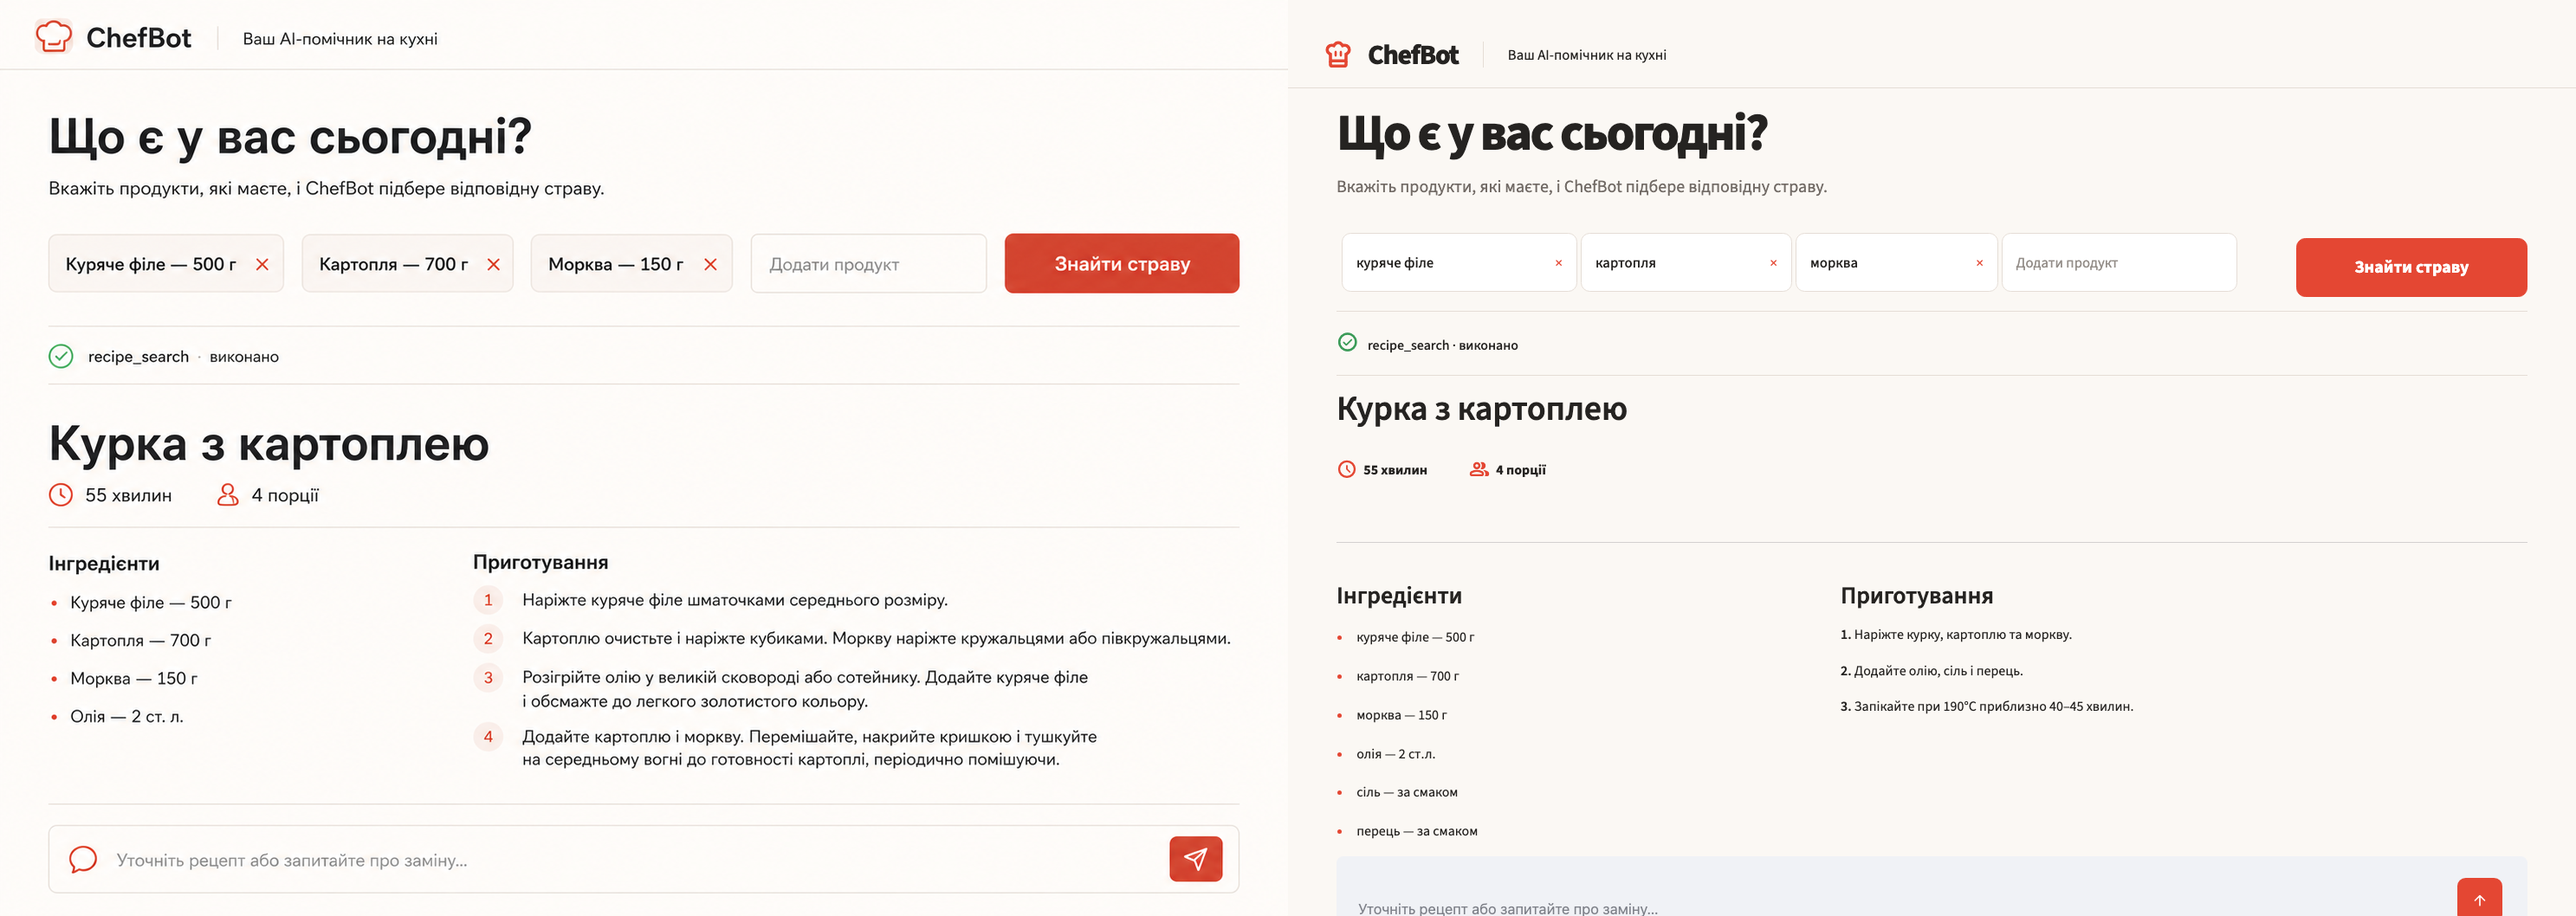
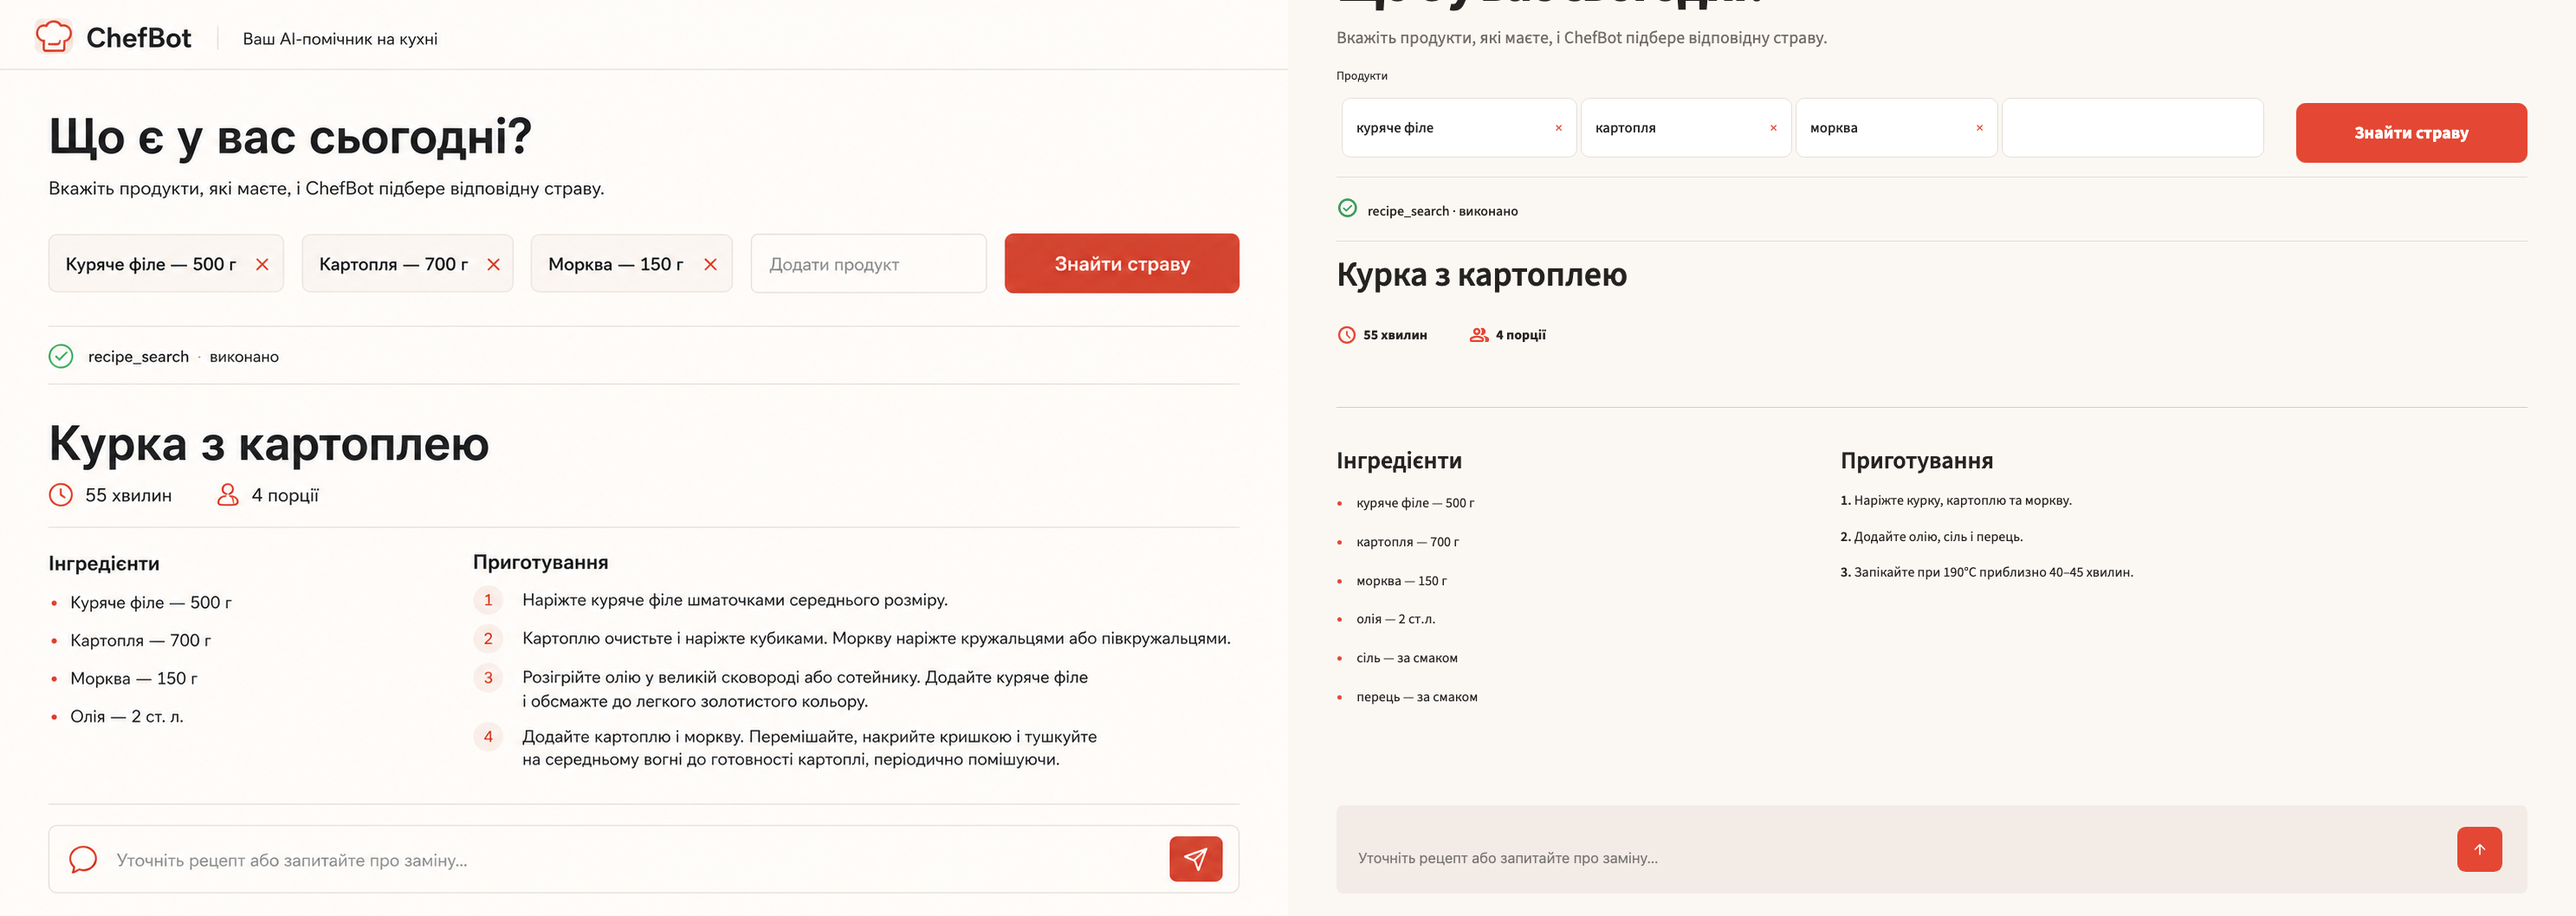
fix: repair ChefBot ingredient states

diff --git a/app.py b/app.py
@@ -51,9 +51,6 @@ h2 {
 }
 ul li::marker { color: var(--chef-accent); }
 [data-testid="stHeader"] { display: none; }
-[data-testid="stForm"] { border: 0; padding: 0; }
-div[data-testid="stForm"] { margin-top: 0.9rem; }
-div[data-testid="stFormSubmitButton"] button,
 .stButton button[kind="primary"] {
   background: var(--chef-accent);
   border-color: var(--chef-accent);
@@ -63,16 +60,25 @@ div[data-testid="stFormSubmitButton"] button,
   font-size: 1.05rem;
   font-weight: 700;
 }
-div[data-testid="stFormSubmitButton"] button p,
 .stButton button[kind="primary"] p {
   color: #fff !important;
   font-size: 1.25rem !important;
   font-weight: 700 !important;
 }
-div[data-testid="stFormSubmitButton"] button:hover,
 .stButton button[kind="primary"]:hover {
   background: var(--chef-accent-hover);
   border-color: var(--chef-accent-hover);
+}
+.stButton button:disabled,
+.stButton button:disabled:hover {
+  background: #eee6e0 !important;
+  border-color: #ded3cb !important;
+  color: #7a716b !important;
+  cursor: not-allowed;
+  opacity: 1 !important;
+}
+.stButton button:disabled p {
+  color: #7a716b !important;
 }
 .chef-header {
   display: flex;
@@ -131,6 +137,17 @@ div[data-testid="stFormSubmitButton"] button:hover,
   box-shadow: none;
   gap: 0.75rem;
 }
+[data-testid="stMultiSelect"] label {
+  color: var(--chef-text);
+  font-size: 0.95rem;
+  font-weight: 700;
+  margin-bottom: 0.45rem;
+}
+[data-testid="stMultiSelect"] [data-baseweb="select"] > div > div:first-child {
+  align-items: center;
+  flex: 1 1 auto;
+  width: 100%;
+}
 [data-testid="stMultiSelect"] [data-baseweb="tag"] {
   width: 15.25rem;
   min-height: 4.3rem;
@@ -149,7 +166,9 @@ div[data-testid="stFormSubmitButton"] button:hover,
 }
 [data-testid="stMultiSelect"] [data-baseweb="tag"] svg { fill: var(--chef-accent); }
 [data-testid="stMultiSelect"] [data-baseweb="select"] div:has(> input[role="combobox"]) {
+  flex: 1 1 17rem;
   position: relative;
+  width: auto;
   min-width: 17rem;
   min-height: 4.3rem;
   padding: 0 1rem;
@@ -157,16 +176,9 @@ div[data-testid="stFormSubmitButton"] button:hover,
   border: 1px solid var(--chef-divider);
   border-radius: 0.65rem;
 }
-[data-testid="stMultiSelect"] [data-baseweb="select"] div:has(> input[role="combobox"])::after {
-  content: "Додати продукт";
-  position: absolute;
-  inset: 1.3rem auto auto 1rem;
-  color: #948e89;
-  font-size: 1.05rem;
-  pointer-events: none;
-}
-[data-testid="stMultiSelect"] [data-baseweb="select"] div:has(> input[role="combobox"]:focus)::after {
-  display: none;
+[data-testid="stMultiSelect"] input[role="combobox"]::placeholder {
+  color: var(--chef-muted);
+  opacity: 1;
 }
 [data-testid="stMultiSelect"] svg[title="Clear all"],
 [data-testid="stMultiSelect"] svg[title="open"] { display: none; }
@@ -244,6 +256,9 @@ hr { border-color: var(--chef-divider); }
   [data-testid="stMultiSelect"] [data-baseweb="select"] div:has(> input[role="combobox"]) {
     width: 100% !important;
     min-width: 100%;
+  }
+  [data-testid="stMultiSelect"] [data-baseweb="select"] div:has(> input[role="combobox"]) {
+    flex: 0 0 auto !important;
   }
   [data-testid="stBottom"] > div {
     padding-left: 1rem !important;
@@ -384,26 +399,29 @@ def main() -> None:
         unsafe_allow_html=True,
     )
 
-    with st.form("ingredient-search", border=False):
-        ingredients_column, action_column = st.columns([4, 1], vertical_alignment="bottom")
-        with ingredients_column:
-            selected = st.multiselect(
-                "Продукти",
-                options=known_ingredients(),
-                default=st.session_state.ingredients,
-                placeholder="Додати продукт",
-                accept_new_options=True,
-                max_selections=12,
-                key="ingredient-picker",
-                label_visibility="collapsed",
-            )
-        with action_column:
-            submitted = st.form_submit_button(
-                "Знайти страву",
-                type="primary",
-                use_container_width=True,
-                disabled=not selected,
-            )
+    ingredients_column, action_column = st.columns([4, 1], vertical_alignment="bottom")
+    with ingredients_column:
+        selected = st.multiselect(
+            "Продукти",
+            options=known_ingredients(),
+            default=st.session_state.ingredients,
+            placeholder="Додати продукт",
+            accept_new_options=True,
+            max_selections=12,
+            key="ingredient-picker",
+            label_visibility="visible",
+        )
+    with action_column:
+        submitted = st.button(
+            "Знайти страву",
+            type="primary",
+            use_container_width=True,
+            disabled=not selected,
+            key="ingredient-search-button",
+        )
+
+    if not selected:
+        st.caption("Додайте хоча б один продукт.")
 
     if submitted:
         st.session_state.ingredients = selected
@@ -432,7 +450,8 @@ def main() -> None:
         with st.expander("Відповідь ChefBot"):
             st.write(st.session_state.last_answer)
 
-    with st.container():
+    follow_up = None
+    if st.session_state.current_recipe or st.session_state.last_answer:
         follow_up = st.chat_input(
             "Уточніть рецепт або запитайте про заміну…",
             key="chef-follow-up",

diff --git a/tests/test_app.py b/tests/test_app.py
@@ -1,6 +1,8 @@
+import re
+
 from streamlit.testing.v1 import AppTest
 
-from app import get_api_key, latest_recipe
+from app import PAGE_STYLE, get_api_key, latest_recipe
 from chefbot.agent import ToolEvent
 
 
@@ -37,6 +39,54 @@ def test_initial_streamlit_screen_renders_without_api_key(monkeypatch) -> None:
     assert not app.exception
     assert app.title[0].value == "Що є у вас сьогодні?"
     assert app.multiselect[0].value == ["куряче філе", "картопля", "морква"]
+
+
+def test_ingredient_label_is_visible(monkeypatch) -> None:
+    monkeypatch.delenv("OPENAI_API_KEY", raising=False)
+    app = AppTest.from_file("app.py").run()
+    assert app.multiselect[0].proto.label_visibility.value == 0
+
+
+def test_empty_selection_disables_search_and_explains_requirement(monkeypatch) -> None:
+    monkeypatch.delenv("OPENAI_API_KEY", raising=False)
+    app = AppTest.from_file("app.py").run()
+    app.multiselect[0].set_value([]).run()
+    assert app.button[0].disabled
+    assert app.caption[0].value == "Додайте хоча б один продукт."
+
+
+def test_ingredient_selection_is_not_batched_inside_a_form(monkeypatch) -> None:
+    monkeypatch.delenv("OPENAI_API_KEY", raising=False)
+    app = AppTest.from_file("app.py").run()
+    assert app.multiselect[0].proto.form_id == ""
+
+
+def test_follow_up_is_hidden_until_conversation_context_exists(monkeypatch) -> None:
+    monkeypatch.delenv("OPENAI_API_KEY", raising=False)
+    app = AppTest.from_file("app.py").run()
+    assert not app.chat_input
+
+
+def test_styles_use_native_placeholder_only() -> None:
+    assert 'content: "Додати продукт"' not in PAGE_STYLE
+
+
+def test_styles_distinguish_disabled_primary_action() -> None:
+    assert "button:disabled" in PAGE_STYLE
+
+
+def test_multiselect_input_remains_in_the_flex_layout() -> None:
+    rule = re.search(
+        r'div:has\(> input\[role="combobox"\]\) \{(?P<body>.*?)\n\}',
+        PAGE_STYLE,
+        re.DOTALL,
+    )
+    assert rule is not None
+    assert "position: relative" in rule.group("body")
+
+
+def test_mobile_input_resets_the_desktop_flex_basis() -> None:
+    assert "flex: 0 0 auto !important" in PAGE_STYLE
 
 
 def test_submit_without_api_key_shows_setup_error_and_preserves_selection(monkeypatch) -> None:

diff --git a/design-qa.md b/design-qa.md
@@ -2,89 +2,77 @@
 
 ## Evidence
 
-- Source visual truth: `docs/design/chefbot-ui-reference.png`
-- Final implementation: `docs/design/chefbot-ui-implementation-loaded.png`
-- Side-by-side comparison: `docs/design/chefbot-ui-comparison-loaded.png`
-- Initial state: `docs/design/chefbot-ui-implementation.png`
-- Missing-key state: `docs/design/chefbot-ui-error.png`
-- Responsive state: `docs/design/chefbot-ui-mobile.png`
-- Desktop viewport and CSS size: `1487 x 1058`
-- Mobile viewport and CSS size: `390 x 844`
-- Source pixels: `1487 x 1058`
-- Implementation pixels: `1487 x 1058`
-- Density normalization: both desktop captures used `deviceScaleFactor: 1`; no resampling was needed.
-- Compared state: successful ingredient-to-recipe result with `recipe_search` completed, recipe details visible, and follow-up input available.
+- Approved loaded-state reference: `docs/design/chefbot-ui-reference.png`
+- User-reported regression: `docs/design/chefbot-ui-empty-before.png`
+- Corrected empty state: `docs/design/chefbot-ui-empty-fixed.png`
+- Empty-state comparison: `docs/design/chefbot-ui-empty-comparison.png`
+- One-item transition: `docs/design/chefbot-ui-one-item-fixed.png`
+- Corrected mobile empty state: `docs/design/chefbot-ui-empty-mobile-fixed.png`
+- Corrected loaded state: `docs/design/chefbot-ui-implementation-loaded.png`
+- Loaded-state comparison: `docs/design/chefbot-ui-comparison-loaded.png`
+- Empty desktop viewport: `1462 x 647` CSS pixels at `deviceScaleFactor: 2`
+  (`2924 x 1294` screenshot pixels), exactly matching the regression capture.
+- Loaded desktop viewport: `1487 x 1058` at `deviceScaleFactor: 1`, exactly
+  matching the approved reference.
+- Mobile viewport: `390 x 844` at `deviceScaleFactor: 1`.
 
-The source and implementation were opened together in the same `2974 x 1058`
-side-by-side image. A separate focused crop was not needed because the original-size
-comparison keeps the logo, form controls, tool status, metadata, recipe columns, and
-follow-up control legible.
+Both desktop comparisons place the source and current implementation together at
+identical viewport, state, and density. The regression screenshot is defect evidence,
+not an intended visual target.
 
-## Findings
+## Findings resolved
+
+- [P1] The add-product placeholder appeared twice because CSS generated a second copy.
+  The synthetic `::after` content is gone; the browser reports one visible placeholder
+  and pseudo-element content `none`.
+- [P1] Clearing the last ingredient left the CTA actually enabled because `st.form`
+  batched the multiselect change until submission. The picker and button now rerun
+  independently, so the CTA immediately becomes disabled and visually neutral.
+- [P1] The empty input occupied only `381 px` while the CTA sat on the far edge of the
+  screen. The input now fills its column (`1045 px`) with a `37 px` gap to the `262 px`
+  CTA at the regression viewport.
+- [P2] The follow-up control appeared before there was recipe or conversation context.
+  It is now hidden in the initial and empty states.
+- [P2] The first flex correction briefly let the input wrapper overlap ingredient tags.
+  Keeping the wrapper `position: relative` preserves normal layout and click targets.
+- [P2] The desktop flex basis initially made the empty mobile input `272 px` tall. The
+  mobile rule resets that basis; the final input is `69 px` high with no horizontal
+  overflow.
+- [P2] A nested `st.container()` moved the loaded-state follow-up input into page flow
+  and below the viewport. It is now a direct `st.chat_input`, restored to Streamlit's
+  sticky bottom container at `y=930`, fully visible within the `1058 px` viewport.
 
 No actionable P0, P1, or P2 visual mismatch remains.
 
-- Typography: the system sans-serif stack, weights, line height, and tightened display
-  tracking reproduce the source hierarchy. The recipe heading was raised to the same
-  visual tier as the source.
-- Spacing and layout: the desktop header, hero, ingredient row, action, dividers,
-  recipe columns, and fixed follow-up control follow the source rhythm. At `390 px`,
-  the form becomes a single readable column with no clipping or horizontal overflow.
-- Colors and tokens: warm `#FBF8F4` background, `#252321` foreground, `#E44733`
-  primary action, green success state, and warm neutral dividers match the approved
-  direction.
-- Image and icon fidelity: the screen has no photographic or illustrative assets.
-  Visible symbols use Streamlit's Material Symbols icon library; no emoji, placeholder
-  art, handcrafted SVG, or CSS illustration replaces a source asset.
-- Copy and content: Ukrainian interface copy matches the approved screen. Recipe values
-  are rendered from the local verified data rather than copied from the mockup.
-- Affordances: ingredient removal, add-product input, primary search action, tool
-  completion, recipe result, and follow-up input are visibly distinct.
-
-## Intentional differences and follow-up polish
-
-- [P3] The mockup includes inventory quantities inside the three input chips, while the
-  current product asks only which ingredients are available. Inventing quantities would
-  make the interface claim data the user never provided, so the implementation keeps
-  ingredient names only.
-- [P3] The mockup illustrates four ingredients and four preparation steps. The verified
-  `chicken-potatoes` record contains six ingredients and three steps; the implementation
-  intentionally displays that grounded source of truth.
-- [P3] The chef mark uses the closest Material Symbols icon instead of the exact mockup
-  outline. No standalone source logo asset was supplied.
-
-## Comparison history
-
-1. Initial comparison found a P2 responsive defect: Streamlit's multiselect clipped the
-   third ingredient and add-product field on a narrow viewport. The mobile flex layout,
-   tag sizing, overflow behavior, and trailing control were corrected. Post-fix evidence:
-   `docs/design/chefbot-ui-mobile.png`; browser measurement was `390 px` client width,
-   `390 px` scroll width, three `351 px` ingredient cards, and no overflow elements.
-2. The first loaded-state comparison found P2 hierarchy drift: the recipe title was too
-   small and a redundant collapsed assistant answer displaced the follow-up control.
-   Recipe typography and metadata were aligned with the source, and the duplicate answer
-   is now suppressed for the initial structured result. Post-fix evidence:
-   `docs/design/chefbot-ui-comparison-loaded.png`.
-3. The initial success status lacked the source's visual confirmation. It now uses the
-   Material Symbols `check_circle` icon with the semantic success color. Post-fix evidence:
-   `docs/design/chefbot-ui-implementation-loaded.png`.
-
 ## Functional browser checks
 
-- Initial desktop state loaded with the expected title and three selected ingredients.
-- Clicking `Знайти страву` without a key displayed the explicit `OPENAI_API_KEY` setup
-  error and preserved all three selections.
-- The grounded preview rendered `Курка з картоплею`, the real `recipe_search` tool event,
-  and the follow-up input.
-- Desktop and mobile layouts had no horizontal overflow.
-- Final run reported zero unexpected console errors and zero page errors.
+- Deleted all three initial tags one at a time and observed a rerender after each.
+- Empty state contained exactly one placeholder, a disabled CTA, the requirement hint,
+  and no chat input.
+- Typed and selected `рис`; one ingredient appeared, the CTA enabled, and the empty hint
+  disappeared.
+- Mobile empty state had `390 px` client and scroll widths and a normal-height input.
+- Loaded state retained three ingredients, an enabled CTA, grounded recipe content, and
+  a fully visible sticky follow-up control.
+- Browser QA reported zero console errors and zero page errors in both flows.
+
+## Intentional P3 differences
+
+- The approved mockup shows quantities inside the selected-product chips. The product
+  does not collect inventory quantities, so the implementation shows ingredient names
+  only rather than inventing user data.
+- The loaded preview renders the verified local recipe record, so its ingredients and
+  steps can differ from illustrative mockup copy.
+- The chef mark uses the closest Material Symbols icon because no standalone logo asset
+  was supplied.
 
 ## Implementation checklist
 
-- [x] Desktop success state compared at identical viewport and density.
-- [x] Initial, missing-key, success, and responsive states captured.
-- [x] Primary search and error-preservation interaction exercised.
-- [x] Required typography, spacing, color, asset, copy, and responsive surfaces reviewed.
-- [x] Earlier P2 findings fixed and re-captured.
+- [x] Empty desktop state compared at identical viewport, density, and state.
+- [x] Loaded desktop state compared at identical viewport, density, and state.
+- [x] Empty, one-item, loaded, and mobile interactions exercised.
+- [x] Disabled, enabled, hidden-context, and sticky follow-up states measured in-browser.
+- [x] Typography, spacing, colors, affordances, copy, and responsive behavior reviewed.
+- [x] All P1/P2 findings fixed and recaptured.
 
 final result: passed
